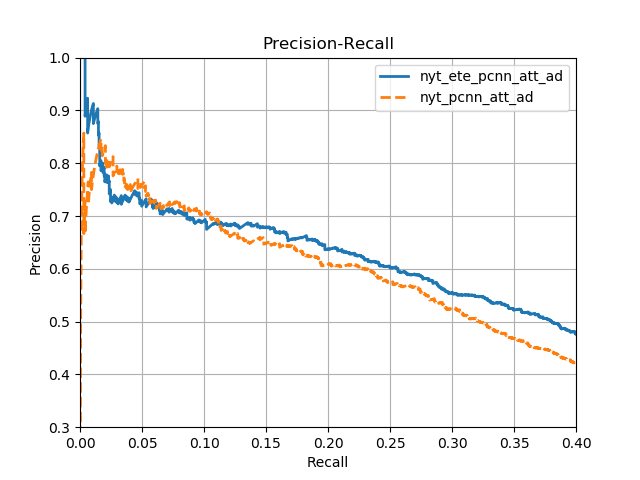
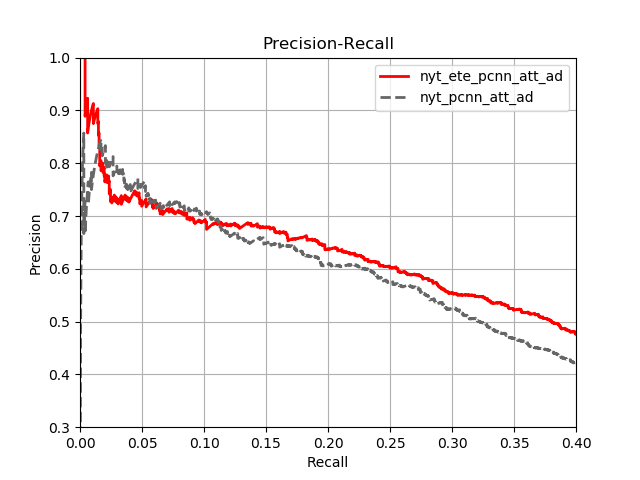
refactor project

Changed region(s): [[0.125, 0.125, 0.8438, 0.6875], [0.7812, 0.6562, 0.9062, 0.75], [0.5938, 0.1562, 0.625, 0.2188]]

diff --git a/draw_plot.py b/draw_plot.py
@@ -19,8 +19,8 @@ result_dir = os.path.join('test_result', FLAGS.dn)
 def main():
     models = sys.argv[1:]
     # fmt = ['rD-', 'g*--', 'bs-.', 'yp:', 'mo--', 'c^--', 'k+--', 'kx--']
-    cs = {'nyt_ete_rprn_att_ad': 'b', 'nyt_ete_rprn_att': 'g', 'nyt_ete_pcnn_att_ad': 'r', 'nyt_ete_pcnn_att': 'c',
-          'nyt_rprn_att_ad': 'm', 'nyt_rprn_att': 'y'}
+    cs = {'nyt_ete_rprn_att_ad': 'b', 'nyt_ete_rprn_att': 'g', 'nyt_ete_pcnn_att_ad': 'r', 'nyt_ete_pcnn_att': 'm',
+          'nyt_rprn_att_ad': 'c', 'nyt_rprn_att': 'y'}
     ls = ['-', '--', ':', '-.', '--', '--', '--', '--']
 
     for i, model in enumerate(models):
@@ -29,7 +29,7 @@ def main():
         f1 = (2 * x * y / (x + y + 1e-20)).max()
         auc = sklearn.metrics.auc(x=x, y=y)
         # plt.plot(x, y, lw=2, label=model + '-auc='+str(auc))
-        c = 'k'
+        c = '#666666'
         if model in cs:
             c = cs[model]
         plt.plot(x, y, color=c, linestyle=ls[i], lw=2, label=model)
